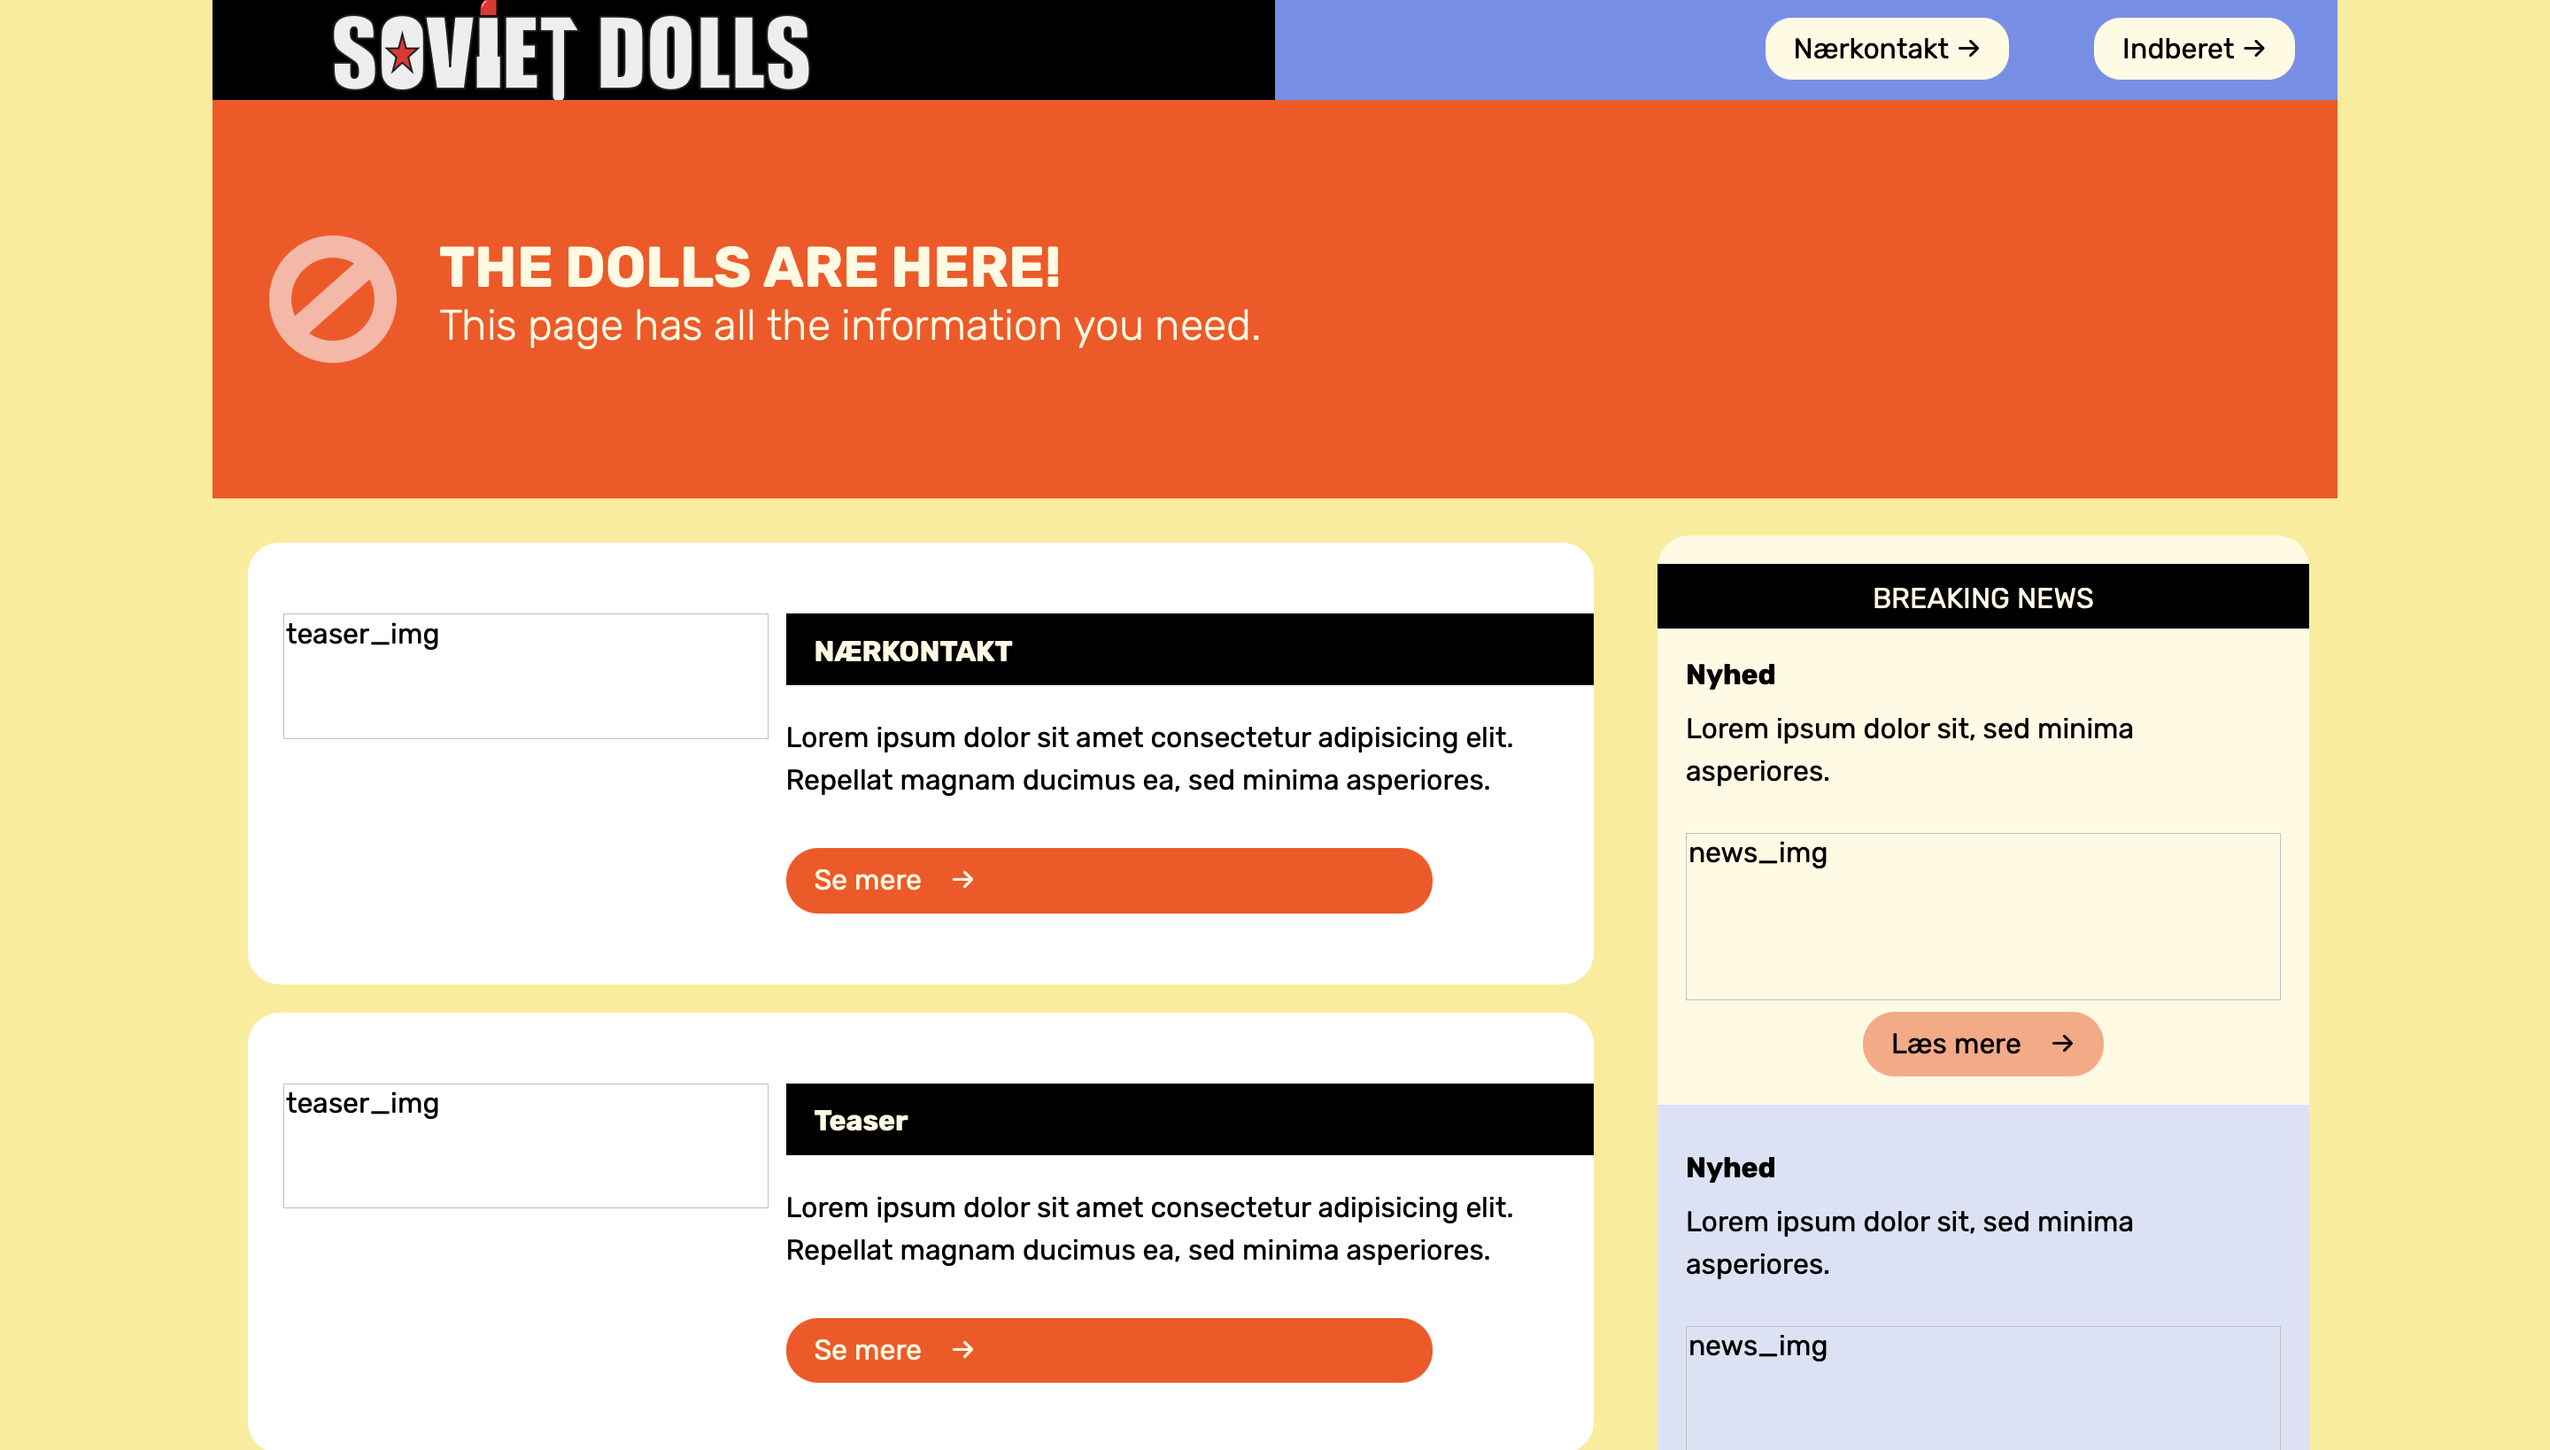
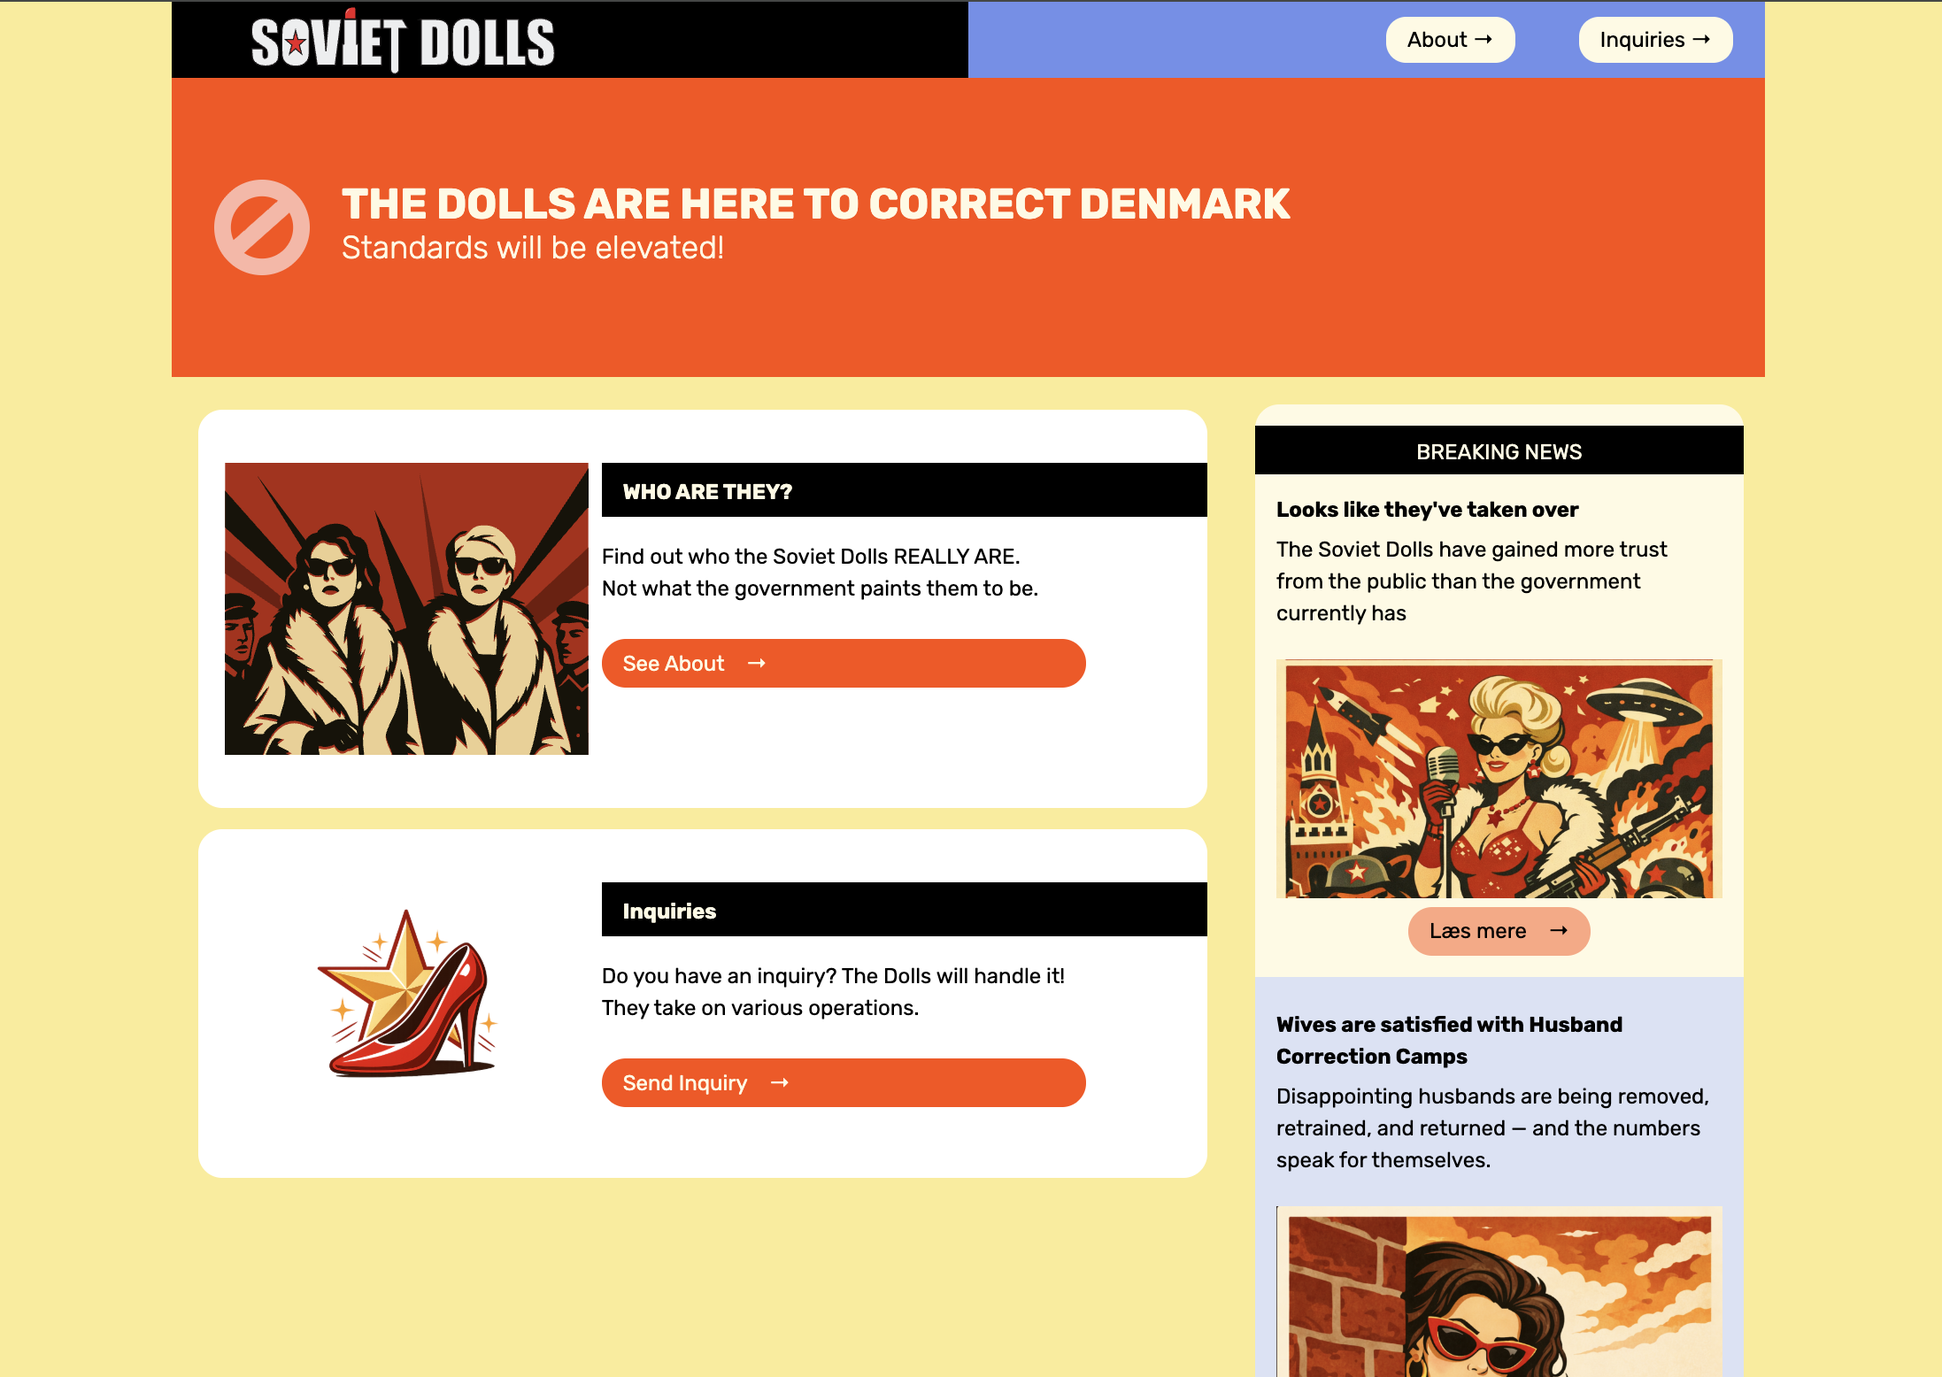
image change

diff --git a/js/popup.js b/js/popup.js
@@ -38,7 +38,7 @@ For this project, I developed a fictional and humorous “emergency” website c
 
 <br><br>
 <a class="modal-link-btn" href="https://aggak12.github.io/Emergency/index.html" target="_blank" rel="noopener">Visit website</a>`,
-      images: ["imgs/emnesite-pre.png"],
+      images: ["imgs/emrg.png"],
     },
 
     {
